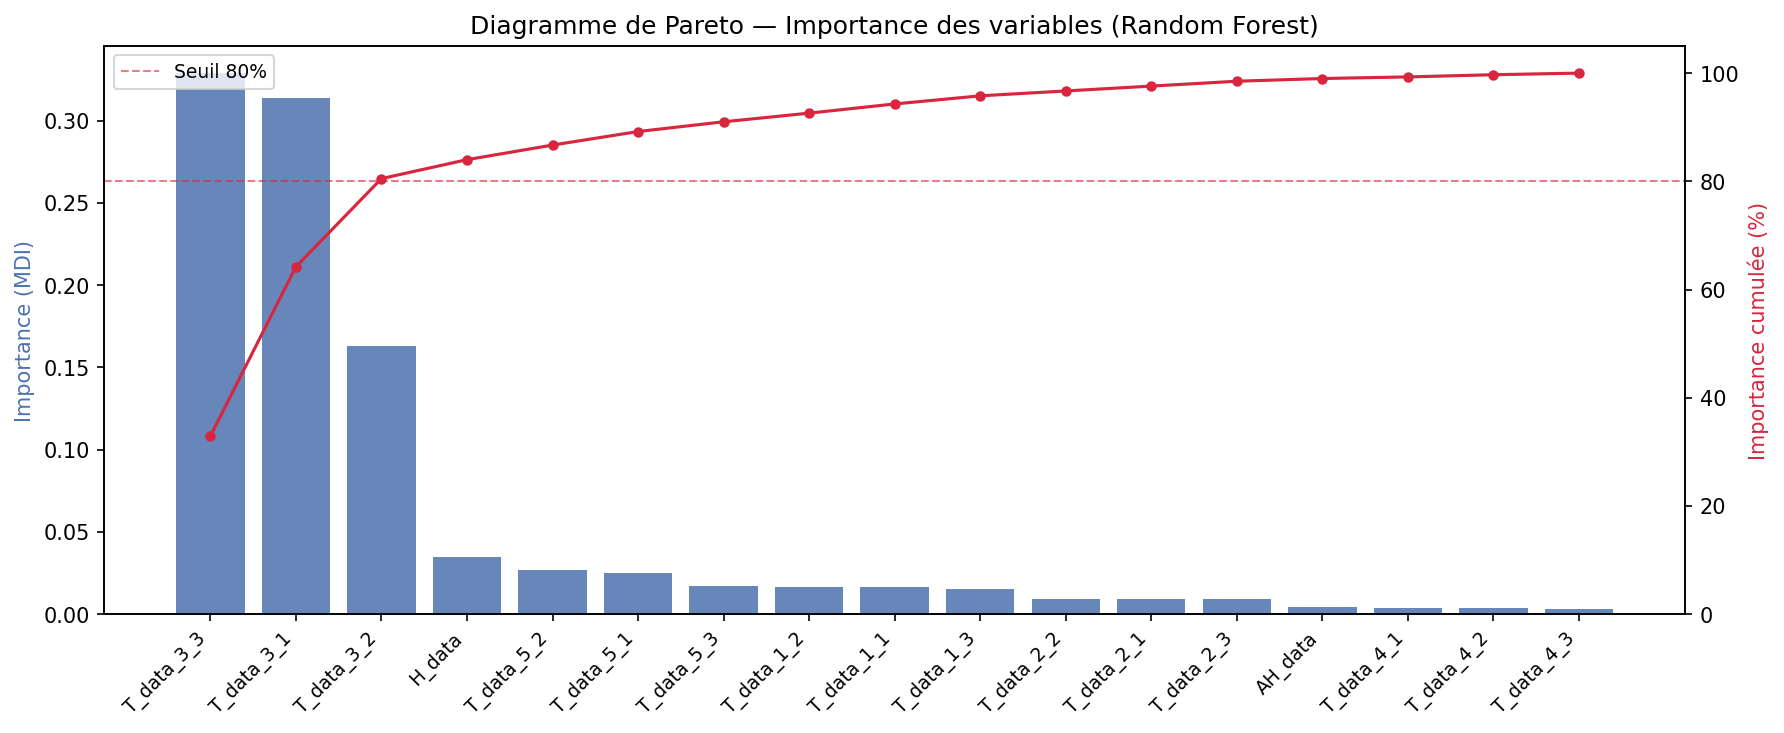
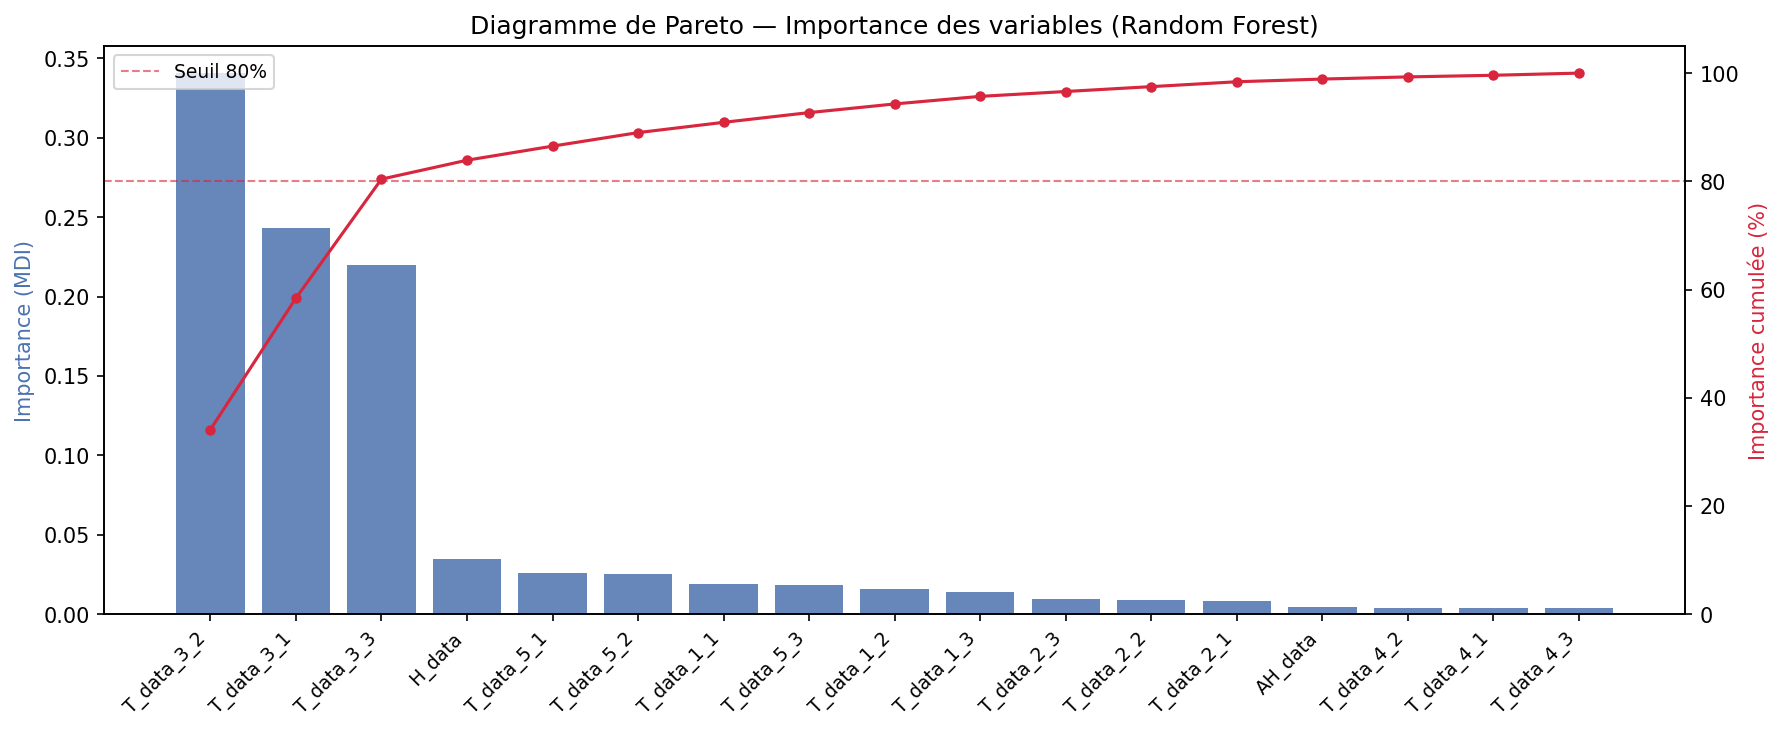
Add join vs aggregation comparison script
Add a new script to compare exact join vs hourly aggregation for X/Y alignment. The script (scripts/comparaison_join_agregation.py) loads data via import_data, formats the time index, creates an hourly-aggregated feature set (mean/max/min/std), trains RandomForestRegressor models for both joining strategies, computes R²/MAE/RMSE, and saves a comparison figure (fig_comparaison_agregation.png). Also updates figures/fig_rf_pareto.png and a cached import_data bytecode file.

diff --git a/scripts/comparaison_join_agregation.py b/scripts/comparaison_join_agregation.py
@@ -1,0 +1,101 @@
+import pandas as pd
+import numpy as np
+import matplotlib.pyplot as plt
+from sklearn.ensemble import RandomForestRegressor
+from sklearn.model_selection import train_test_split
+from sklearn.metrics import mean_absolute_error, mean_squared_error, r2_score
+
+from import_data import charger_donnees, nettoyer_donnees, normaliser_qualite, formater_index_temporel
+
+# ── Chargement & préparation ──────────────────────────────────────
+df_x, df_y = charger_donnees("data/data_X.csv", "data/data_Y.csv")
+
+df_x_final = formater_index_temporel(nettoyer_donnees(df_x), "date_time")
+df_y_final = formater_index_temporel(normaliser_qualite(df_y, colonne='quality'), "date_time")
+
+# ── Option 1 : join exact (ce qu'on faisait avant) ────────────────
+df_exact = df_x_final.join(df_y_final, how='inner')
+X_exact = df_exact.drop(columns=['quality']).astype(float)
+y_exact = df_exact['quality']
+print(f"Option 1 (join exact)     : {len(df_exact)} lignes")
+
+# ── Option 2 : agrégation horaire de X ───────────────────────────
+# Tronquer l'index de X à l'heure
+df_x_tronque = df_x_final.copy()
+df_x_tronque.index = df_x_tronque.index.floor('h')
+
+# Agréger par heure
+df_x_horaire = df_x_tronque.groupby(level=0).agg(['mean', 'max', 'min', 'std'])
+df_x_horaire.columns = ['_'.join(col) for col in df_x_horaire.columns]
+
+# Tronquer l'index de Y à l'heure aussi
+df_y_tronque = df_y_final.copy()
+df_y_tronque.index = df_y_tronque.index.floor('h')
+
+# Jointure
+df_horaire = df_x_horaire.join(df_y_tronque, how='inner').dropna()
+X_horaire = df_horaire.drop(columns=['quality']).astype(float)
+y_horaire = df_horaire['quality']
+print(f"Option 2 (agrégation 1h)  : {len(df_horaire)} lignes, {X_horaire.shape[1]} features")
+# ── Fonction d'entraînement + évaluation ─────────────────────────
+def evaluer(X, y, label):
+    X_train, X_test, y_train, y_test = train_test_split(X, y, test_size=0.2, random_state=42)
+    rf = RandomForestRegressor(n_estimators=200, min_samples_leaf=2, random_state=42, n_jobs=-1)
+    rf.fit(X_train, y_train)
+    y_pred = rf.predict(X_test)
+    mae  = mean_absolute_error(y_test, y_pred)
+    rmse = np.sqrt(mean_squared_error(y_test, y_pred))
+    r2   = r2_score(y_test, y_pred)
+    print(f"\n── {label} ──")
+    print(f"R²   : {r2:.4f}")
+    print(f"MAE  : {mae:.4f}")
+    print(f"RMSE : {rmse:.4f}")
+    return rf, X_train, X_test, y_train, y_test, y_pred, r2, mae, rmse
+
+print("\n=== Entraînement Option 1 ===")
+rf1, X_tr1, X_te1, y_tr1, y_te1, y_p1, r2_1, mae_1, rmse_1 = evaluer(X_exact, y_exact, "Option 1 — join exact")
+
+print("\n=== Entraînement Option 2 ===")
+rf2, X_tr2, X_te2, y_tr2, y_te2, y_p2, r2_2, mae_2, rmse_2 = evaluer(X_horaire, y_horaire, "Option 2 — agrégation horaire")
+
+# ── Comparaison visuelle ──────────────────────────────────────────
+fig, axes = plt.subplots(2, 2, figsize=(14, 10))
+
+# Option 1
+axes[0,0].scatter(y_te1, y_p1, alpha=0.3, s=12, color='#4C72B0')
+lim = [-5, 105]
+axes[0,0].plot(lim, lim, 'r--', linewidth=1)
+axes[0,0].set(title=f'Option 1 — Réel vs Prédit\nR²={r2_1:.3f} | MAE={mae_1:.2f}',
+              xlabel='Quality réelle', ylabel='Quality prédite')
+
+axes[0,1].hist(y_te1.values - y_p1, bins=40, color='#4C72B0', edgecolor='white')
+axes[0,1].axvline(0, color='red', linewidth=1.2, linestyle='--')
+axes[0,1].set(title='Option 1 — Résidus', xlabel='Résidu', ylabel='Fréquence')
+
+# Option 2
+axes[1,0].scatter(y_te2, y_p2, alpha=0.3, s=12, color='#2CA02C')
+axes[1,0].plot(lim, lim, 'r--', linewidth=1)
+axes[1,0].set(title=f'Option 2 — Réel vs Prédit\nR²={r2_2:.3f} | MAE={mae_2:.2f}',
+              xlabel='Quality réelle', ylabel='Quality prédite')
+
+axes[1,1].hist(y_te2.values - y_p2, bins=40, color='#2CA02C', edgecolor='white')
+axes[1,1].axvline(0, color='red', linewidth=1.2, linestyle='--')
+axes[1,1].set(title='Option 2 — Résidus', xlabel='Résidu', ylabel='Fréquence')
+
+plt.suptitle('Comparaison : join exact vs agrégation horaire', fontsize=13)
+plt.tight_layout()
+plt.savefig("fig_comparaison_agregation.png", dpi=150, bbox_inches='tight')
+plt.show()
+print("\n[Saved] fig_comparaison_agregation.png")
+
+# ── Résumé final ─────────────────────────────────────────────────
+print("\n══════════════════════════════════════")
+print("         RÉSUMÉ COMPARATIF")
+print("══════════════════════════════════════")
+print(f"{'':25} {'Option 1':>12} {'Option 2':>12}")
+print(f"{'Nb lignes':25} {len(df_exact):>12} {len(df_horaire):>12}")
+print(f"{'Nb features':25} {X_exact.shape[1]:>12} {X_horaire.shape[1]:>12}")
+print(f"{'R²':25} {r2_1:>12.4f} {r2_2:>12.4f}")
+print(f"{'MAE':25} {mae_1:>12.4f} {mae_2:>12.4f}")
+print(f"{'RMSE':25} {rmse_1:>12.4f} {rmse_2:>12.4f}")
+print("══════════════════════════════════════")
